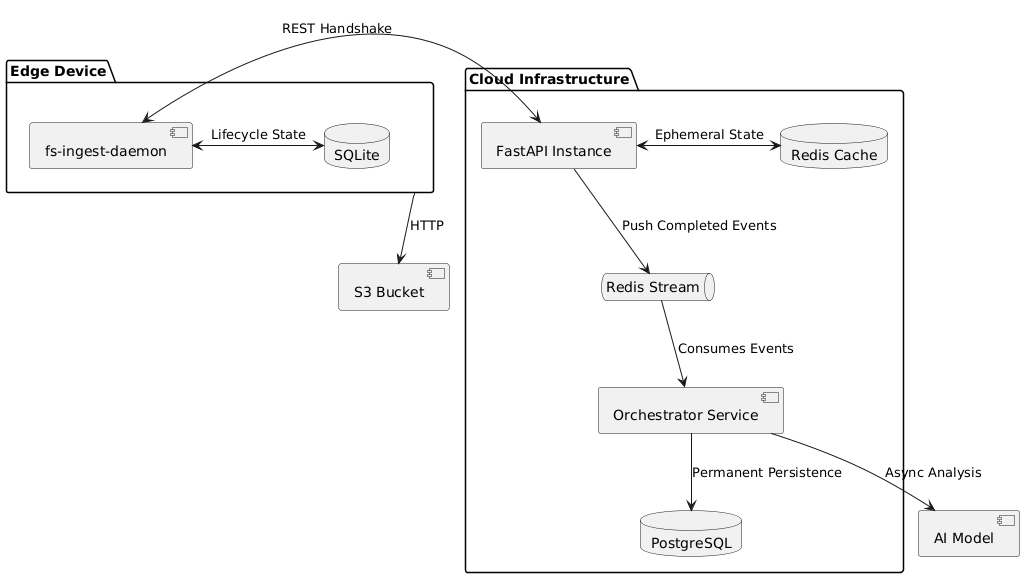
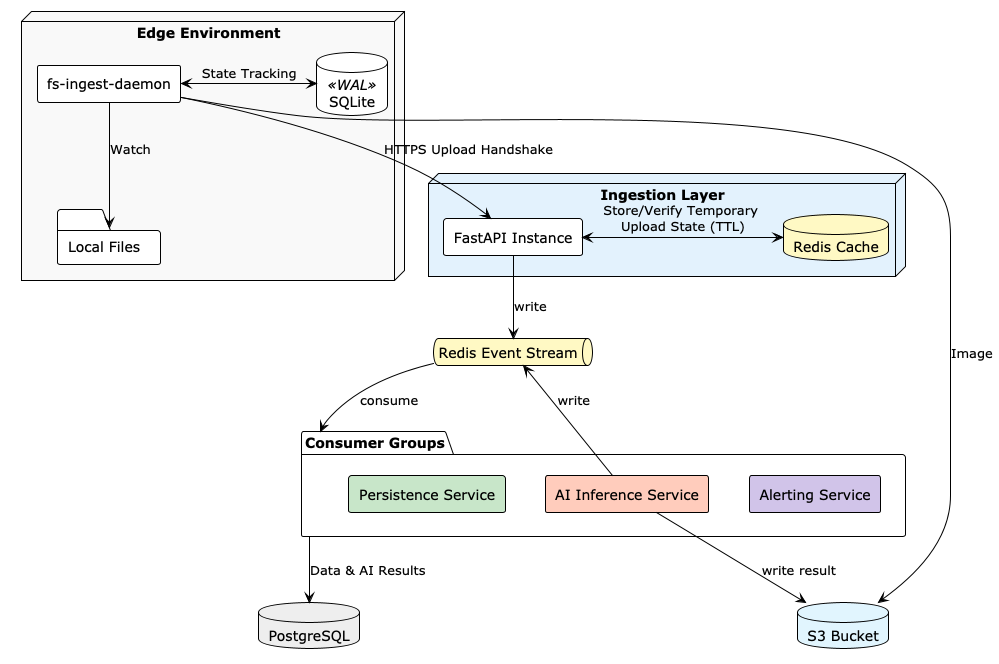
documentation

diff --git a/app/config.py b/app/config.py
@@ -1,0 +1,23 @@
+import os
+from pydantic_settings import BaseSettings, SettingsConfigDict
+
+class Settings(BaseSettings):
+    # MinIO Configurations
+    MINIO_ENDPOINT: str = os.getenv("MINIO_ENDPOINT", "s3.my-basement.cloud")
+    MINIO_ACCESS_KEY: str = os.getenv("MINIO_ACCESS_KEY", "")
+    MINIO_SECRET_KEY: str = os.getenv("MINIO_SECRET_KEY", "")
+    MINIO_REGION: str = os.getenv("MINIO_REGION", "eu-central-1")
+    MINIO_BUCKET_NAME: str = os.getenv("MINIO_BUCKET_NAME", "glitch-hunt-dev")
+    
+    # Redis Configuration
+    REDIS_HOST: str = os.getenv("REDIS_HOST", "localhost")
+    REDIS_PORT: int = int(os.getenv("REDIS_PORT", 6379))
+    REDIS_DB: int = int(os.getenv("REDIS_DB", 0))
+    REDIS_STREAM_KEY: str = "ingest:events"
+    
+    # Event Configuration
+    EVENT_VERSION: str = os.getenv("EVENT_VERSION", "1.0")
+    
+    model_config = SettingsConfigDict(env_file=".env", extra="ignore")
+
+settings = Settings()

diff --git a/README.md b/README.md
@@ -1,1 +1,57 @@
-# glitch-hunt-ingestion
+# Glitch Hunt Ingestion API
+
+Building the API for a zero-dependency, resilient data bridge that transforms local file-system events into structured cloud data.
+
+## Project Mission
+To provide a robust and scalable bridge between edge environments and cloud storage/analytics, ensuring data integrity and asynchronous processing through an event-driven architecture with an ephemeral handshake.
+
+## Architecture Overview
+
+![System Architecture](docs/architecture.png)
+
+The system is designed with a layered approach to ensure resilience and scalability:
+
+### 1. Edge Environment (The Source)
+- **fs-ingest-daemon**: A lightweight daemon that watches for local file system events.
+- **SQLite (WAL)**: Used for local state tracking to ensure no files are missed or processed twice, even after restarts.
+- **Local Files**: The raw data source at the edge.
+
+### 2. Ingestion Layer (The Gateway)
+- **FastAPI Instance**: The primary entry point for the edge daemons. It manages the "Handshake" protocol.
+- **Redis Cache**: Stores temporary upload states and metadata with a TTL (Time-To-Live), ensuring the ingestion process is stateless and resilient.
+
+### 3. Redis Event Stream (The Nervous System)
+- Acts as an asynchronous message bus, decoupling the ingestion process from downstream processing. This ensures high availability and allows for backpressure management.
+- **Versioned Envelope Schema**: All events follow a standardized envelope to ensure cross-service compatibility:
+
+| Field | Type | Description |
+| :--- | :--- | :--- |
+| `event_type` | string | e.g., `file.ingested`, `ai.completed`, ... |
+| `handshake_id` | uuid | Unique ID linking edge files to cloud records |
+| `payload` | json | Domain-specific data (metadata, AI scores, etc.) |
+| `version` | json | Version of the FastAPI to prevent fuck ups |
+
+### 4. Consumer Groups (Logic & Enrichment)
+- **Persistence Service**: Consumes events from the stream and stores structured data into PostgreSQL.
+- **AI Inference Service**: Performs real-time analysis on the ingested data, writing results back to the stream and updating S3 assets.
+- **Alerting Service**: Monitors the stream for specific conditions and triggers notifications.
+
+### 5. Storage Cloud
+- **S3 Bucket (MinIO)**: Permanent storage for binary data (images, etc.).
+- **PostgreSQL**: Permanent storage for structured data and AI inference results.
+
+## Key Workflows
+
+### Ingestion Handshake
+The ingestion process uses a two-step handshake to ensure data is safely transferred:
+
+1.  **Request (`POST /v1/ingest/request`)**: The edge daemon requests an upload. The API validates metadata, generates a `correlation_id`, and provides a pre-signed S3 URL.
+2.  **Confirm (`POST /v1/ingest/confirm`)**: Once the upload to S3 is complete, the edge daemon confirms the status. This triggers downstream processing via the Redis Event Stream and allows the edge to prune the local file.
+
+## Tech Stack
+- **Language**: Python 3.12+
+- **Framework**: FastAPI
+- **Package Manager**: uv
+- **Cache/Stream**: Redis
+- **Database**: PostgreSQL
+- **Object Storage**: MinIO (S3 compatible)
